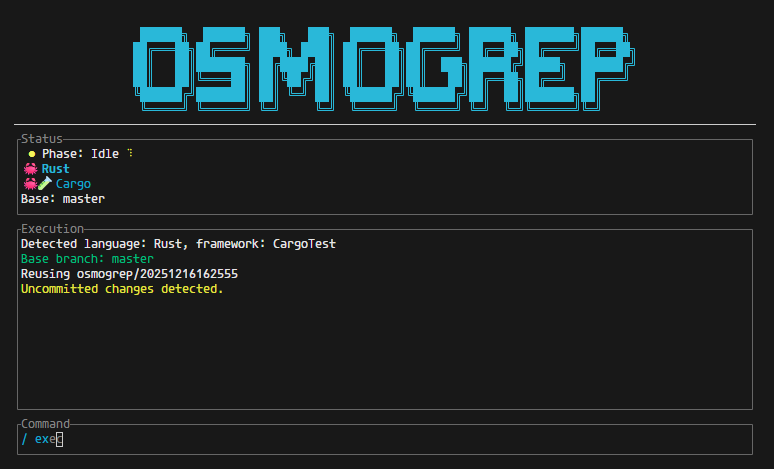
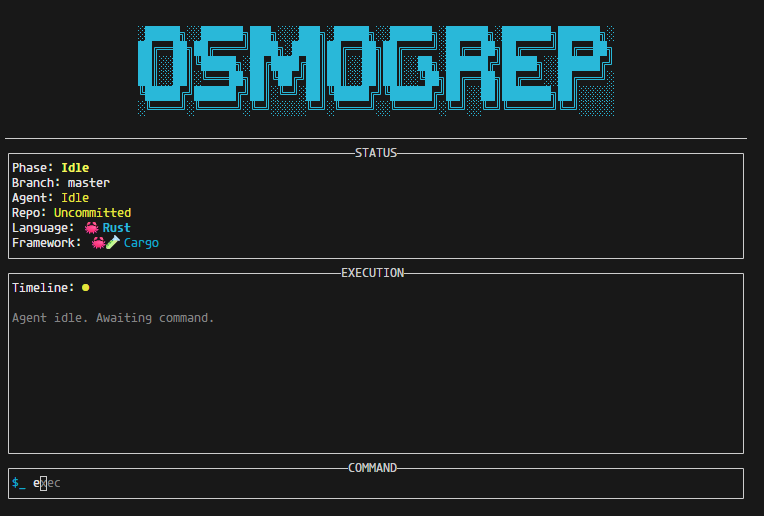
new_ui_and_readme

Changed region(s): [[0.0, 0.0299, 0.9935, 0.6269], [0.0, 0.8657, 0.9935, 0.9851]]

diff --git a/README.md b/README.md
@@ -1,12 +1,5 @@
 
-````md
- ██████╗  ██████╗ ███╗   ███╗  ██████╗  ██████╗ ██████╗ ███████╗██████╗ 
-██╔═══██╗██╔════╝ ████╗ ████║ ██╔═══██╗██╔════╝ ██╔══██╗██╔════╝██╔══██╗
-██║   ██║███████╗ ██╔████╔██║ ██║   ██║██║  ███╗██████╔╝█████╗  ██████╔╝
-██║   ██║╚════██║ ██║╚██╔╝██║ ██║   ██║██║   ██║██╔══██╗██╔══╝  ██╔═══╝ 
-╚██████╔╝███████║ ██║ ╚═╝ ██║ ╚██████╔╝╚██████╔╝██║  ██║███████╗██║     
- ╚═════╝ ╚══════╝ ╚═╝     ╚═╝  ╚═════╝  ╚═════╝ ╚═╝  ╚═╝╚══════╝╚═╝     
-````
+![osmogrep](osmogrep.svg)
 
 <p align="left">
   <img src="https://img.shields.io/badge/status-active-success?style=flat-square" />
@@ -25,191 +18,29 @@
 It gives you a **controlled execution sandbox** inside your own Git repository, with explicit user intent for every destructive action.
 
 
----
+## Fundamentals
 
-## Why OsmoGrep Exists
+OsmoGrep is a **context-first automation tool** for local repositories.
 
+It operates under these rules:
 
-Most tools assume:
+* **Context before execution**
+  Language, test framework, branch, and working tree state are detected mechanically before any action.
 
-* Code is committed
-* Branches are disposable
-* Automation should “just run”
-
-That is wrong.
-
-Real engineering happens in **dirty working trees**, half-written code, and local experiments.
-
-OsmoGrep is built for that reality.
-
-> **“First, do no damage.”**
-
-## 🧠 How OsmoGrep Thinks
-
-OsmoGrep does **not** behave like a CI bot.
-It behaves like a **careful engineer sitting beside you**.
-
-Its mental model is deliberate, staged, and conservative by design.
-
----
-
-## 🧩 1. Context Before Action
-
-OsmoGrep **never executes first**.
-
-It begins by answering simple, mechanical questions:
-
-* *What language is this repository actually written in?*
-* *Is there a test framework, or none at all?*
-* *What branch am I on?*
-* *Is the working tree dirty?*
-
-These answers are **derived, not inferred**.
-No LLM. No guessing. No “best effort”.
-
-> **If the context is wrong, everything downstream is wrong.**
-
-That is why OsmoGrep surfaces this information **visibly in the UI** before you do anything.
-
----
-
-### 🧠 2. Static Facts > AI Assumptions
-
-OsmoGrep treats AI as a **tool**, not an authority.
-
-Before any LLM is even considered, OsmoGrep establishes **hard constraints**:
-
-* Language is detected via file extensions
-* Test frameworks are detected via repo structure
-* Execution capability is validated mechanically
-
-If no test framework exists, OsmoGrep will say:
-
-> ⚪ *No tests detected*
-
-It will **not** hallucinate one.
-
----
-
-### ✂ 3. Diffs Are the Unit of Thought
-
-OsmoGrep does not reason about “the repo”.
-
-It reasons about **what changed**.
-
-Everything downstream — tests, execution, validation — is anchored to:
-
-* The **exact diff**
-* The **surrounding code**
-* The **type of change** (logic, interface, state)
-
-> **A pure function change is not an E2E test candidate.**
-
-OsmoGrep refuses to do meaningless work.
-
----
-
-### 🧭 4. Intent Is Explicit
-
-OsmoGrep assumes **you are in control**.
-
-Nothing happens unless you say so:
-
-* `/exec` means *you want execution*
-* `/new` means *you want isolation*
-* `/rollback` means *you want safety*
-
-There are **no background actions**.
-There are **no silent checkouts**.
-There are **no surprise mutations**.
-
-> *Automation without consent is a bug.*
-
----
-
-### 🧑⚖ 5. Human-in-the-Loop Is Not Optional
-
-When OsmoGrep eventually generates tests or runs them, it does not “fix” failures automatically.
-
-Instead, it asks:
-
-* ❌ Is the test wrong?
-* ❌ Is the code wrong?
-* ❌ Is the assumption wrong?
-* ❌ Is setup missing?
-
-And then it presents **choices**, not decisions.
-
-> **OsmoGrep assists judgment — it does not replace it.**
-
----
-
-### 🧪 6. Execution Is a Sandbox, Not a Gamble
-
-Execution happens in a **dedicated agent branch**.
-
-Your workflow remains intact:
-
-* Original branch is preserved
-* Agent branches are reused by default
-* Working tree is applied *only on command*
-* Rollback is always available
-
-If something breaks, it breaks **somewhere safe**.
-
----
-
-### 🛑 7. Conservative by Default, Powerful by Design
-
-OsmoGrep is intentionally **slow to act** and **hard to misuse**.
-
-That is not a limitation.
-
-That is the feature.
-
-> **“First, do no damage.”** — Engineering principle
-
----
-
-### 🧠 In One Sentence
-
-**OsmoGrep thinks like a senior engineer:
-verify context, constrain scope, act deliberately, and never assume intent.**
-
-
-
-## Core Principles
 * **No implicit mutations**
-  Nothing is checked out, applied, or deleted unless *you* command it.
+  Nothing is checked out, applied, or executed without an explicit command.
 
-* **Works on uncommitted code**
-  Your working tree stays intact until execution is explicitly triggered.
+* **Diff-scoped reasoning**
+  Actions are based on the current diff, not the entire repository.
 
-* **Branch safety by default**
-  Existing agent branches are reused. New ones are created only on request.
+* **Isolated execution**
+  Automation runs in agent branches; the original branch remains untouched.
 
-* **Human-in-the-loop execution**
-  Every action is visible, logged, and reversible.
+* **Human-controlled flow**
+  OsmoGrep surfaces state and options but does not make irreversible decisions.
 
----
+It is designed to work safely on **uncommitted code** in active development environments.
 
-## What OsmoGrep Does
-
-
-1. Detects repository context
-2. Detects base branch
-3. Detects existing `osmogrep/*` agent branches
-4. Allows you to:
-
-   * Reuse an agent branch
-   * Create a new agent branch
-   * Apply current working tree on demand
-   * Execute tests or automation
-   * Roll back cleanly
-
-All from a **single terminal UI**.
-
----
 
 ## Terminal UI
 ![osmogrep-tui](osmogrep.png)
